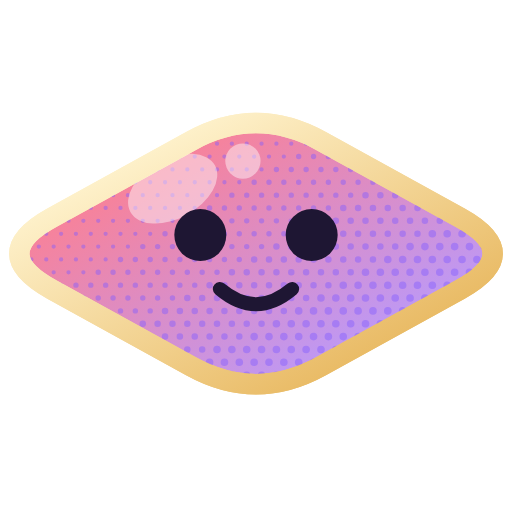
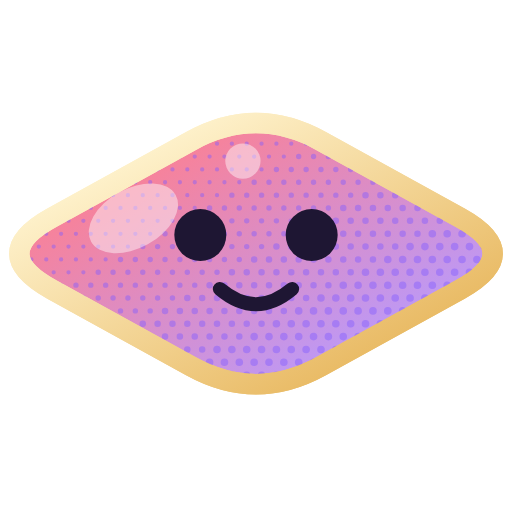
Rest the hero's gloss against the edge instead of under it, clear of the eyes (#385)

Changed region(s): [[0.1562, 0.2812, 0.4375, 0.5]]

diff --git a/app/kit/figure-icon.ts b/app/kit/figure-icon.ts
@@ -1,2 +1,2 @@
 // Written by `pnpm make:icon`: the app icon's drawing in the day look, for the first opening (src/launch-intro.ts).
-export const FIGURE_ICON_SVG = "<svg aria-hidden=\"true\" focusable=\"false\" viewBox=\"0 0 64 40\" data-character=\"diamond\" style=\"overflow:visible\"><g data-part=\"figure\" style=\"transform-box:fill-box;transform-origin:50% 100%\"><g><defs><linearGradient id=\"icon-body\" x1=\"0.15\" y1=\"0.15\" x2=\"0.85\" y2=\"0.85\"><stop offset=\"0\" style=\"stop-color:#FF7F8E\"></stop><stop offset=\"1\" style=\"stop-color:#B79BFF\"></stop></linearGradient><linearGradient id=\"icon-edge\" x1=\"0.15\" y1=\"0.15\" x2=\"0.85\" y2=\"0.85\"><stop offset=\"0\" style=\"stop-color:#FFF4D0\"></stop><stop offset=\"1\" style=\"stop-color:#E8B860\"></stop></linearGradient></defs><g data-part=\"body\"><path d=\"M25 7.86 Q32 4 39 7.86 L54 16.14 Q61 20 54 23.86 L39 32.14 Q32 36 25 32.14 L10 23.86 Q3 20 10 16.14 Z\" style=\"fill:url(#icon-body);stroke:url(#icon-edge);stroke-width:2.2;stroke-linejoin:round\"></path><g data-part=\"halftone\"><path d=\"\" style=\"fill:none;stroke:#835EFF;stroke-opacity:0.45;stroke-width:0.22;stroke-linecap:round\"></path><path d=\"\" style=\"fill:none;stroke:#835EFF;stroke-opacity:0.45;stroke-width:0.34;stroke-linecap:round\"></path><path d=\"M27 6.77h0M28.6 6.77h0M30.2 6.77h0M31.8 6.77h0M33.4 6.77h0M35 6.77h0M36.6 6.77h0M24.6 8.16h0M26.2 8.16h0M27.8 8.16h0M29.4 8.16h0M31 8.16h0M32.6 8.16h0M34.2 8.16h0M35.8 8.16h0M37.4 8.16h0M22.2 9.54h0M23.8 9.54h0M25.4 9.54h0M27 9.54h0M28.6 9.54h0M30.2 9.54h0M31.8 9.54h0M33.4 9.54h0M35 9.54h0M19.8 10.93h0M21.4 10.93h0M23 10.93h0M24.6 10.93h0M26.2 10.93h0M27.8 10.93h0M29.4 10.93h0M31 10.93h0M32.6 10.93h0M17.4 12.31h0M19 12.31h0M20.6 12.31h0M22.2 12.31h0M23.8 12.31h0M25.4 12.31h0M27 12.31h0M28.6 12.31h0M30.2 12.31h0M15 13.7h0M16.6 13.7h0M18.2 13.7h0M19.8 13.7h0M21.4 13.7h0M23 13.7h0M24.6 13.7h0M26.2 13.7h0M27.8 13.7h0M12.6 15.08h0M14.2 15.08h0M15.8 15.08h0M17.4 15.08h0M19 15.08h0M20.6 15.08h0M22.2 15.08h0M23.8 15.08h0M25.4 15.08h0M10.2 16.47h0M11.8 16.47h0M13.4 16.47h0M15 16.47h0M16.6 16.47h0M18.2 16.47h0M19.8 16.47h0M21.4 16.47h0M23 16.47h0M7.8 17.86h0M9.4 17.86h0M11 17.86h0M12.6 17.86h0M14.2 17.86h0M15.8 17.86h0M17.4 17.86h0M19 17.86h0M20.6 17.86h0M7 19.24h0M8.6 19.24h0M10.2 19.24h0M11.8 19.24h0M13.4 19.24h0M15 19.24h0M16.6 19.24h0M18.2 19.24h0M7.8 20.63h0M9.4 20.63h0M11 20.63h0M12.6 20.63h0M14.2 20.63h0M15.8 20.63h0M7 22.01h0M8.6 22.01h0M10.2 22.01h0M11.8 22.01h0M13.4 22.01h0M9.4 23.4h0M11 23.4h0\" style=\"fill:none;stroke:#835EFF;stroke-opacity:0.45;stroke-width:0.46;stroke-linecap:round\"></path><path d=\"M39 8.16h0M36.6 9.54h0M38.2 9.54h0M39.8 9.54h0M41.4 9.54h0M34.2 10.93h0M35.8 10.93h0M37.4 10.93h0M39 10.93h0M40.6 10.93h0M42.2 10.93h0M43.8 10.93h0M31.8 12.31h0M33.4 12.31h0M35 12.31h0M36.6 12.31h0M38.2 12.31h0M39.8 12.31h0M41.4 12.31h0M43 12.31h0M44.6 12.31h0M29.4 13.7h0M31 13.7h0M32.6 13.7h0M34.2 13.7h0M35.8 13.7h0M37.4 13.7h0M39 13.7h0M40.6 13.7h0M42.2 13.7h0M27 15.08h0M28.6 15.08h0M30.2 15.08h0M31.8 15.08h0M33.4 15.08h0M35 15.08h0M36.6 15.08h0M38.2 15.08h0M39.8 15.08h0M24.6 16.47h0M26.2 16.47h0M27.8 16.47h0M29.4 16.47h0M31 16.47h0M32.6 16.47h0M34.2 16.47h0M35.8 16.47h0M37.4 16.47h0M22.2 17.86h0M23.8 17.86h0M25.4 17.86h0M27 17.86h0M28.6 17.86h0M30.2 17.86h0M31.8 17.86h0M33.4 17.86h0M35 17.86h0M19.8 19.24h0M21.4 19.24h0M23 19.24h0M24.6 19.24h0M26.2 19.24h0M27.8 19.24h0M29.4 19.24h0M31 19.24h0M32.6 19.24h0M17.4 20.63h0M19 20.63h0M20.6 20.63h0M22.2 20.63h0M23.8 20.63h0M25.4 20.63h0M27 20.63h0M28.6 20.63h0M30.2 20.63h0M15 22.01h0M16.6 22.01h0M18.2 22.01h0M19.8 22.01h0M21.4 22.01h0M23 22.01h0M24.6 22.01h0M26.2 22.01h0M27.8 22.01h0M12.6 23.4h0M14.2 23.4h0M15.8 23.4h0M17.4 23.4h0M19 23.4h0M20.6 23.4h0M22.2 23.4h0M23.8 23.4h0M25.4 23.4h0M11.8 24.78h0M13.4 24.78h0M15 24.78h0M16.6 24.78h0M18.2 24.78h0M19.8 24.78h0M21.4 24.78h0M23 24.78h0M14.2 26.17h0M15.8 26.17h0M17.4 26.17h0M19 26.17h0M20.6 26.17h0M18.2 27.56h0\" style=\"fill:none;stroke:#835EFF;stroke-opacity:0.45;stroke-width:0.58;stroke-linecap:round\"></path><path d=\"M46.2 12.31h0M43.8 13.7h0M45.4 13.7h0M47 13.7h0M48.6 13.7h0M41.4 15.08h0M43 15.08h0M44.6 15.08h0M46.2 15.08h0M47.8 15.08h0M49.4 15.08h0M51 15.08h0M39 16.47h0M40.6 16.47h0M42.2 16.47h0M43.8 16.47h0M45.4 16.47h0M47 16.47h0M48.6 16.47h0M50.2 16.47h0M51.8 16.47h0M36.6 17.86h0M38.2 17.86h0M39.8 17.86h0M41.4 17.86h0M43 17.86h0M44.6 17.86h0M46.2 17.86h0M47.8 17.86h0M49.4 17.86h0M34.2 19.24h0M35.8 19.24h0M37.4 19.24h0M39 19.24h0M40.6 19.24h0M42.2 19.24h0M43.8 19.24h0M45.4 19.24h0M47 19.24h0M31.8 20.63h0M33.4 20.63h0M35 20.63h0M36.6 20.63h0M38.2 20.63h0M39.8 20.63h0M41.4 20.63h0M43 20.63h0M44.6 20.63h0M29.4 22.01h0M31 22.01h0M32.6 22.01h0M34.2 22.01h0M35.8 22.01h0M37.4 22.01h0M39 22.01h0M40.6 22.01h0M42.2 22.01h0M27 23.4h0M28.6 23.4h0M30.2 23.4h0M31.8 23.4h0M33.4 23.4h0M35 23.4h0M36.6 23.4h0M38.2 23.4h0M39.8 23.4h0M24.6 24.78h0M26.2 24.78h0M27.8 24.78h0M29.4 24.78h0M31 24.78h0M32.6 24.78h0M34.2 24.78h0M35.8 24.78h0M37.4 24.78h0M22.2 26.17h0M23.8 26.17h0M25.4 26.17h0M27 26.17h0M28.6 26.17h0M30.2 26.17h0M31.8 26.17h0M33.4 26.17h0M35 26.17h0M19.8 27.56h0M21.4 27.56h0M23 27.56h0M24.6 27.56h0M26.2 27.56h0M27.8 27.56h0M29.4 27.56h0M31 27.56h0M32.6 27.56h0M20.6 28.94h0M22.2 28.94h0M23.8 28.94h0M25.4 28.94h0M27 28.94h0M28.6 28.94h0M30.2 28.94h0M23 30.33h0M24.6 30.33h0M26.2 30.33h0\" style=\"fill:none;stroke:#835EFF;stroke-opacity:0.45;stroke-width:0.7;stroke-linecap:round\"></path><path d=\"M53.4 16.47h0M51 17.86h0M52.6 17.86h0M54.2 17.86h0M55.8 17.86h0M48.6 19.24h0M50.2 19.24h0M51.8 19.24h0M53.4 19.24h0M55 19.24h0M56.6 19.24h0M46.2 20.63h0M47.8 20.63h0M49.4 20.63h0M51 20.63h0M52.6 20.63h0M54.2 20.63h0M55.8 20.63h0M57.4 20.63h0M43.8 22.01h0M45.4 22.01h0M47 22.01h0M48.6 22.01h0M50.2 22.01h0M51.8 22.01h0M53.4 22.01h0M55 22.01h0M56.6 22.01h0M41.4 23.4h0M43 23.4h0M44.6 23.4h0M46.2 23.4h0M47.8 23.4h0M49.4 23.4h0M51 23.4h0M52.6 23.4h0M54.2 23.4h0M39 24.78h0M40.6 24.78h0M42.2 24.78h0M43.8 24.78h0M45.4 24.78h0M47 24.78h0M48.6 24.78h0M50.2 24.78h0M51.8 24.78h0M36.6 26.17h0M38.2 26.17h0M39.8 26.17h0M41.4 26.17h0M43 26.17h0M44.6 26.17h0M46.2 26.17h0M47.8 26.17h0M49.4 26.17h0M34.2 27.56h0M35.8 27.56h0M37.4 27.56h0M39 27.56h0M40.6 27.56h0M42.2 27.56h0M43.8 27.56h0M45.4 27.56h0M47 27.56h0M31.8 28.94h0M33.4 28.94h0M35 28.94h0M36.6 28.94h0M38.2 28.94h0M39.8 28.94h0M41.4 28.94h0M43 28.94h0M44.6 28.94h0M27.8 30.33h0M29.4 30.33h0M31 30.33h0M32.6 30.33h0M34.2 30.33h0M35.8 30.33h0M37.4 30.33h0M39 30.33h0M40.6 30.33h0M42.2 30.33h0M25.4 31.71h0M27 31.71h0M28.6 31.71h0M30.2 31.71h0M31.8 31.71h0M33.4 31.71h0M35 31.71h0M36.6 31.71h0M38.2 31.71h0M27.8 33.1h0M29.4 33.1h0M31 33.1h0M32.6 33.1h0M34.2 33.1h0M35.8 33.1h0\" style=\"fill:none;stroke:#835EFF;stroke-opacity:0.45;stroke-width:0.82;stroke-linecap:round\"></path><path d=\"\" style=\"fill:none;stroke:#835EFF;stroke-opacity:0.45;stroke-width:0.94;stroke-linecap:round\"></path><path d=\"\" style=\"fill:none;stroke:#835EFF;stroke-opacity:0.45;stroke-width:1.06;stroke-linecap:round\"></path></g><g data-part=\"gloss\"><ellipse cx=\"23.02\" cy=\"13\" rx=\"5.2\" ry=\"3.2\" transform=\"rotate(-28.89 23.02 13)\" style=\"fill:rgba(255, 255, 255, 0.45)\"></ellipse><circle cx=\"30.59\" cy=\"10.03\" r=\"1.9\" style=\"fill:rgba(255, 255, 255, 0.45)\"></circle></g><path data-part=\"edge\" d=\"M25 7.86 Q32 4 39 7.86 L54 16.14 Q61 20 54 23.86 L39 32.14 Q32 36 25 32.14 L10 23.86 Q3 20 10 16.14 Z\" style=\"fill:none;stroke:url(#icon-edge);stroke-width:2.2;stroke-linejoin:round\"></path></g><g data-part=\"face\"><g data-part=\"eyes\" style=\"transform:translate(0px, 0px)\"><g data-part=\"gaze\"><g data-part=\"lid\" style=\"transform-box:fill-box;transform-origin:50% 50%\"><circle data-part=\"eye\" cx=\"26\" cy=\"18\" r=\"2.8\" style=\"fill:#1E1633;transform-box:fill-box;transform-origin:50% 50%\"></circle></g><g data-part=\"lid\" style=\"transform-box:fill-box;transform-origin:50% 50%\"><circle data-part=\"eye\" cx=\"38\" cy=\"18\" r=\"2.8\" style=\"fill:#1E1633;transform-box:fill-box;transform-origin:50% 50%\"></circle></g></g></g><g data-part=\"mouth\" style=\"transform-box:fill-box;transform-origin:50% 50%\"><path d=\"M28.1 23.8 Q32 27.1 35.9 23.8\" style=\"fill:none;stroke:#1E1633;stroke-width:1.5;stroke-linecap:round\"></path></g></g></g></g></svg>";
+export const FIGURE_ICON_SVG = "<svg aria-hidden=\"true\" focusable=\"false\" viewBox=\"0 0 64 40\" data-character=\"diamond\" style=\"overflow:visible\"><g data-part=\"figure\" style=\"transform-box:fill-box;transform-origin:50% 100%\"><g><defs><linearGradient id=\"icon-body\" x1=\"0.15\" y1=\"0.15\" x2=\"0.85\" y2=\"0.85\"><stop offset=\"0\" style=\"stop-color:#FF7F8E\"></stop><stop offset=\"1\" style=\"stop-color:#B79BFF\"></stop></linearGradient><linearGradient id=\"icon-edge\" x1=\"0.15\" y1=\"0.15\" x2=\"0.85\" y2=\"0.85\"><stop offset=\"0\" style=\"stop-color:#FFF4D0\"></stop><stop offset=\"1\" style=\"stop-color:#E8B860\"></stop></linearGradient></defs><g data-part=\"body\"><path d=\"M25 7.86 Q32 4 39 7.86 L54 16.14 Q61 20 54 23.86 L39 32.14 Q32 36 25 32.14 L10 23.86 Q3 20 10 16.14 Z\" style=\"fill:url(#icon-body);stroke:url(#icon-edge);stroke-width:2.2;stroke-linejoin:round\"></path><g data-part=\"halftone\"><path d=\"\" style=\"fill:none;stroke:#835EFF;stroke-opacity:0.45;stroke-width:0.22;stroke-linecap:round\"></path><path d=\"\" style=\"fill:none;stroke:#835EFF;stroke-opacity:0.45;stroke-width:0.34;stroke-linecap:round\"></path><path d=\"M27 6.77h0M28.6 6.77h0M30.2 6.77h0M31.8 6.77h0M33.4 6.77h0M35 6.77h0M36.6 6.77h0M24.6 8.16h0M26.2 8.16h0M27.8 8.16h0M29.4 8.16h0M31 8.16h0M32.6 8.16h0M34.2 8.16h0M35.8 8.16h0M37.4 8.16h0M22.2 9.54h0M23.8 9.54h0M25.4 9.54h0M27 9.54h0M28.6 9.54h0M30.2 9.54h0M31.8 9.54h0M33.4 9.54h0M35 9.54h0M19.8 10.93h0M21.4 10.93h0M23 10.93h0M24.6 10.93h0M26.2 10.93h0M27.8 10.93h0M29.4 10.93h0M31 10.93h0M32.6 10.93h0M17.4 12.31h0M19 12.31h0M20.6 12.31h0M22.2 12.31h0M23.8 12.31h0M25.4 12.31h0M27 12.31h0M28.6 12.31h0M30.2 12.31h0M15 13.7h0M16.6 13.7h0M18.2 13.7h0M19.8 13.7h0M21.4 13.7h0M23 13.7h0M24.6 13.7h0M26.2 13.7h0M27.8 13.7h0M12.6 15.08h0M14.2 15.08h0M15.8 15.08h0M17.4 15.08h0M19 15.08h0M20.6 15.08h0M22.2 15.08h0M23.8 15.08h0M25.4 15.08h0M10.2 16.47h0M11.8 16.47h0M13.4 16.47h0M15 16.47h0M16.6 16.47h0M18.2 16.47h0M19.8 16.47h0M21.4 16.47h0M23 16.47h0M7.8 17.86h0M9.4 17.86h0M11 17.86h0M12.6 17.86h0M14.2 17.86h0M15.8 17.86h0M17.4 17.86h0M19 17.86h0M20.6 17.86h0M7 19.24h0M8.6 19.24h0M10.2 19.24h0M11.8 19.24h0M13.4 19.24h0M15 19.24h0M16.6 19.24h0M18.2 19.24h0M7.8 20.63h0M9.4 20.63h0M11 20.63h0M12.6 20.63h0M14.2 20.63h0M15.8 20.63h0M7 22.01h0M8.6 22.01h0M10.2 22.01h0M11.8 22.01h0M13.4 22.01h0M9.4 23.4h0M11 23.4h0\" style=\"fill:none;stroke:#835EFF;stroke-opacity:0.45;stroke-width:0.46;stroke-linecap:round\"></path><path d=\"M39 8.16h0M36.6 9.54h0M38.2 9.54h0M39.8 9.54h0M41.4 9.54h0M34.2 10.93h0M35.8 10.93h0M37.4 10.93h0M39 10.93h0M40.6 10.93h0M42.2 10.93h0M43.8 10.93h0M31.8 12.31h0M33.4 12.31h0M35 12.31h0M36.6 12.31h0M38.2 12.31h0M39.8 12.31h0M41.4 12.31h0M43 12.31h0M44.6 12.31h0M29.4 13.7h0M31 13.7h0M32.6 13.7h0M34.2 13.7h0M35.8 13.7h0M37.4 13.7h0M39 13.7h0M40.6 13.7h0M42.2 13.7h0M27 15.08h0M28.6 15.08h0M30.2 15.08h0M31.8 15.08h0M33.4 15.08h0M35 15.08h0M36.6 15.08h0M38.2 15.08h0M39.8 15.08h0M24.6 16.47h0M26.2 16.47h0M27.8 16.47h0M29.4 16.47h0M31 16.47h0M32.6 16.47h0M34.2 16.47h0M35.8 16.47h0M37.4 16.47h0M22.2 17.86h0M23.8 17.86h0M25.4 17.86h0M27 17.86h0M28.6 17.86h0M30.2 17.86h0M31.8 17.86h0M33.4 17.86h0M35 17.86h0M19.8 19.24h0M21.4 19.24h0M23 19.24h0M24.6 19.24h0M26.2 19.24h0M27.8 19.24h0M29.4 19.24h0M31 19.24h0M32.6 19.24h0M17.4 20.63h0M19 20.63h0M20.6 20.63h0M22.2 20.63h0M23.8 20.63h0M25.4 20.63h0M27 20.63h0M28.6 20.63h0M30.2 20.63h0M15 22.01h0M16.6 22.01h0M18.2 22.01h0M19.8 22.01h0M21.4 22.01h0M23 22.01h0M24.6 22.01h0M26.2 22.01h0M27.8 22.01h0M12.6 23.4h0M14.2 23.4h0M15.8 23.4h0M17.4 23.4h0M19 23.4h0M20.6 23.4h0M22.2 23.4h0M23.8 23.4h0M25.4 23.4h0M11.8 24.78h0M13.4 24.78h0M15 24.78h0M16.6 24.78h0M18.2 24.78h0M19.8 24.78h0M21.4 24.78h0M23 24.78h0M14.2 26.17h0M15.8 26.17h0M17.4 26.17h0M19 26.17h0M20.6 26.17h0M18.2 27.56h0\" style=\"fill:none;stroke:#835EFF;stroke-opacity:0.45;stroke-width:0.58;stroke-linecap:round\"></path><path d=\"M46.2 12.31h0M43.8 13.7h0M45.4 13.7h0M47 13.7h0M48.6 13.7h0M41.4 15.08h0M43 15.08h0M44.6 15.08h0M46.2 15.08h0M47.8 15.08h0M49.4 15.08h0M51 15.08h0M39 16.47h0M40.6 16.47h0M42.2 16.47h0M43.8 16.47h0M45.4 16.47h0M47 16.47h0M48.6 16.47h0M50.2 16.47h0M51.8 16.47h0M36.6 17.86h0M38.2 17.86h0M39.8 17.86h0M41.4 17.86h0M43 17.86h0M44.6 17.86h0M46.2 17.86h0M47.8 17.86h0M49.4 17.86h0M34.2 19.24h0M35.8 19.24h0M37.4 19.24h0M39 19.24h0M40.6 19.24h0M42.2 19.24h0M43.8 19.24h0M45.4 19.24h0M47 19.24h0M31.8 20.63h0M33.4 20.63h0M35 20.63h0M36.6 20.63h0M38.2 20.63h0M39.8 20.63h0M41.4 20.63h0M43 20.63h0M44.6 20.63h0M29.4 22.01h0M31 22.01h0M32.6 22.01h0M34.2 22.01h0M35.8 22.01h0M37.4 22.01h0M39 22.01h0M40.6 22.01h0M42.2 22.01h0M27 23.4h0M28.6 23.4h0M30.2 23.4h0M31.8 23.4h0M33.4 23.4h0M35 23.4h0M36.6 23.4h0M38.2 23.4h0M39.8 23.4h0M24.6 24.78h0M26.2 24.78h0M27.8 24.78h0M29.4 24.78h0M31 24.78h0M32.6 24.78h0M34.2 24.78h0M35.8 24.78h0M37.4 24.78h0M22.2 26.17h0M23.8 26.17h0M25.4 26.17h0M27 26.17h0M28.6 26.17h0M30.2 26.17h0M31.8 26.17h0M33.4 26.17h0M35 26.17h0M19.8 27.56h0M21.4 27.56h0M23 27.56h0M24.6 27.56h0M26.2 27.56h0M27.8 27.56h0M29.4 27.56h0M31 27.56h0M32.6 27.56h0M20.6 28.94h0M22.2 28.94h0M23.8 28.94h0M25.4 28.94h0M27 28.94h0M28.6 28.94h0M30.2 28.94h0M23 30.33h0M24.6 30.33h0M26.2 30.33h0\" style=\"fill:none;stroke:#835EFF;stroke-opacity:0.45;stroke-width:0.7;stroke-linecap:round\"></path><path d=\"M53.4 16.47h0M51 17.86h0M52.6 17.86h0M54.2 17.86h0M55.8 17.86h0M48.6 19.24h0M50.2 19.24h0M51.8 19.24h0M53.4 19.24h0M55 19.24h0M56.6 19.24h0M46.2 20.63h0M47.8 20.63h0M49.4 20.63h0M51 20.63h0M52.6 20.63h0M54.2 20.63h0M55.8 20.63h0M57.4 20.63h0M43.8 22.01h0M45.4 22.01h0M47 22.01h0M48.6 22.01h0M50.2 22.01h0M51.8 22.01h0M53.4 22.01h0M55 22.01h0M56.6 22.01h0M41.4 23.4h0M43 23.4h0M44.6 23.4h0M46.2 23.4h0M47.8 23.4h0M49.4 23.4h0M51 23.4h0M52.6 23.4h0M54.2 23.4h0M39 24.78h0M40.6 24.78h0M42.2 24.78h0M43.8 24.78h0M45.4 24.78h0M47 24.78h0M48.6 24.78h0M50.2 24.78h0M51.8 24.78h0M36.6 26.17h0M38.2 26.17h0M39.8 26.17h0M41.4 26.17h0M43 26.17h0M44.6 26.17h0M46.2 26.17h0M47.8 26.17h0M49.4 26.17h0M34.2 27.56h0M35.8 27.56h0M37.4 27.56h0M39 27.56h0M40.6 27.56h0M42.2 27.56h0M43.8 27.56h0M45.4 27.56h0M47 27.56h0M31.8 28.94h0M33.4 28.94h0M35 28.94h0M36.6 28.94h0M38.2 28.94h0M39.8 28.94h0M41.4 28.94h0M43 28.94h0M44.6 28.94h0M27.8 30.33h0M29.4 30.33h0M31 30.33h0M32.6 30.33h0M34.2 30.33h0M35.8 30.33h0M37.4 30.33h0M39 30.33h0M40.6 30.33h0M42.2 30.33h0M25.4 31.71h0M27 31.71h0M28.6 31.71h0M30.2 31.71h0M31.8 31.71h0M33.4 31.71h0M35 31.71h0M36.6 31.71h0M38.2 31.71h0M27.8 33.1h0M29.4 33.1h0M31 33.1h0M32.6 33.1h0M34.2 33.1h0M35.8 33.1h0\" style=\"fill:none;stroke:#835EFF;stroke-opacity:0.45;stroke-width:0.82;stroke-linecap:round\"></path><path d=\"\" style=\"fill:none;stroke:#835EFF;stroke-opacity:0.45;stroke-width:0.94;stroke-linecap:round\"></path><path d=\"\" style=\"fill:none;stroke:#835EFF;stroke-opacity:0.45;stroke-width:1.06;stroke-linecap:round\"></path></g><g data-part=\"gloss\"><ellipse cx=\"18.79\" cy=\"16.2\" rx=\"5.2\" ry=\"3.2\" transform=\"rotate(-28.89 18.79 16.2)\" style=\"fill:rgba(255, 255, 255, 0.45)\"></ellipse><circle cx=\"30.59\" cy=\"10.03\" r=\"1.9\" style=\"fill:rgba(255, 255, 255, 0.45)\"></circle></g><path data-part=\"edge\" d=\"M25 7.86 Q32 4 39 7.86 L54 16.14 Q61 20 54 23.86 L39 32.14 Q32 36 25 32.14 L10 23.86 Q3 20 10 16.14 Z\" style=\"fill:none;stroke:url(#icon-edge);stroke-width:2.2;stroke-linejoin:round\"></path></g><g data-part=\"face\"><g data-part=\"eyes\" style=\"transform:translate(0px, 0px)\"><g data-part=\"gaze\"><g data-part=\"lid\" style=\"transform-box:fill-box;transform-origin:50% 50%\"><circle data-part=\"eye\" cx=\"26\" cy=\"18\" r=\"2.8\" style=\"fill:#1E1633;transform-box:fill-box;transform-origin:50% 50%\"></circle></g><g data-part=\"lid\" style=\"transform-box:fill-box;transform-origin:50% 50%\"><circle data-part=\"eye\" cx=\"38\" cy=\"18\" r=\"2.8\" style=\"fill:#1E1633;transform-box:fill-box;transform-origin:50% 50%\"></circle></g></g></g><g data-part=\"mouth\" style=\"transform-box:fill-box;transform-origin:50% 50%\"><path d=\"M28.1 23.8 Q32 27.1 35.9 23.8\" style=\"fill:none;stroke:#1E1633;stroke-width:1.5;stroke-linecap:round\"></path></g></g></g></g></svg>";

diff --git a/app/kit/Figure.tsx b/app/kit/Figure.tsx
@@ -93,17 +93,112 @@ function edges() {
   });
 }
 
+/** Half the edge's width: the part of the line drawn inside the body. */
+const EDGE_HALF = 1.1;
+/** How far along each side the corners' round reaches (app/kit/Character.tsx draws the diamond with radius 8). */
+const CORNER_ROUND = 8;
+/** The eyes' centres and their radius, open: where the gloss must leave room. */
+const EYES_AT: readonly (readonly [number, number])[] = [
+  [26, 18],
+  [38, 18],
+];
+const EYE_R = 2.8;
+/** The room the gloss leaves an eye at rest. */
+const EYE_CLEAR = 0.4;
+export const GLOSS_RX = 5.2;
+export const GLOSS_RY = 3.2;
+export const DOT_R = 1.9;
+
+/**
+ * The body's outline as the diamond draws it (app/kit/Character.tsx, corners rounded by 8 with one quadratic each),
+ * as points close enough together to measure a distance on: the straight sides and the round of each corner.
+ */
+const OUTLINE: readonly (readonly [number, number])[] = (() => {
+  const points: [number, number][] = [];
+  CORNERS.forEach(([x, y], index) => {
+    const [px, py] = CORNERS[(index + CORNERS.length - 1) % CORNERS.length];
+    const [nx, ny] = CORNERS[(index + 1) % CORNERS.length];
+    const toPrevious = Math.hypot(px - x, py - y);
+    const toNext = Math.hypot(nx - x, ny - y);
+    const start = [x + ((px - x) / toPrevious) * CORNER_ROUND, y + ((py - y) / toPrevious) * CORNER_ROUND];
+    const end = [x + ((nx - x) / toNext) * CORNER_ROUND, y + ((ny - y) / toNext) * CORNER_ROUND];
+    for (let step = 0; step <= 16; step += 1) {
+      const t = step / 16;
+      points.push([(1 - t) ** 2 * start[0] + 2 * (1 - t) * t * x + t * t * end[0], (1 - t) ** 2 * start[1] + 2 * (1 - t) * t * y + t * t * end[1]]);
+    }
+  });
+  return points;
+})();
+
+/** How far a point is from the body's outline, measured to the nearest of its segments. */
+export function fromOutline(point: Readonly<{ x: number; y: number }>): number {
+  let nearest = Infinity;
+  OUTLINE.forEach(([ax, ay], index) => {
+    const [bx, by] = OUTLINE[(index + 1) % OUTLINE.length];
+    const length = (bx - ax) ** 2 + (by - ay) ** 2 || 1;
+    const t = Math.max(0, Math.min(1, ((point.x - ax) * (bx - ax) + (point.y - ay) * (by - ay)) / length));
+    nearest = Math.min(nearest, Math.hypot(point.x - (ax + t * (bx - ax)), point.y - (ay + t * (by - ay))));
+  });
+  return nearest;
+}
+
+/** The least room between the gloss, slanted by `angle`, and either eye. */
+function fromEyes(cx: number, cy: number, angle: number): number {
+  let nearest = Infinity;
+  for (let step = 0; step < 90; step += 1) {
+    const t = (step * Math.PI) / 45;
+    const x = cx + GLOSS_RX * Math.cos(t) * Math.cos(angle) - GLOSS_RY * Math.sin(t) * Math.sin(angle);
+    const y = cy + GLOSS_RX * Math.cos(t) * Math.sin(angle) + GLOSS_RY * Math.sin(t) * Math.cos(angle);
+    for (const [ex, ey] of EYES_AT) nearest = Math.min(nearest, Math.hypot(x - ex, y - ey) - EYE_R);
+  }
+  return nearest;
+}
+
 /**
  * What the light does to the body: the gradient's two points, the gloss's place and slant, and the dot beside it.
  * All of it from one direction, so a pose never has to be lit by hand.
+ *
+ * Neither reflection is cut by the edge (the founder, 29 Sep 2026: the edge cut the gloss's round side). The gloss lies
+ * along the lit side and touches the edge's inner line: its short half-axis and half the edge from that side's line;
+ * pressed there, it would meet the left eye, so it slides along the side until it clears it, keeping its shape. The dot stays where the light puts it, and only moves toward the middle when the edge, or a corner's round, would
+ * cover part of it.
  */
 export function lit(light = LIGHT, lean = 0) {
   const l = turned(unit(light), lean);
   const gradient = { x1: 0.5 + 0.5 * l.x, y1: 0.5 + 0.5 * l.y, x2: 0.5 - 0.5 * l.x, y2: 0.5 - 0.5 * l.y };
-  const gloss = { cx: CENTRE.x + l.x * 12.7, cy: CENTRE.y + l.y * 9.9 };
-  const dot = { cx: CENTRE.x + l.x * 2, cy: CENTRE.y + l.y * 14.1 };
   const all = edges().map((edge) => ({ ...edge, facing: edge.normal.x * l.x + edge.normal.y * l.y }));
   const litEdge = all.reduce((best, edge) => (edge.facing > best.facing ? edge : best), all[0]);
+  const lightOn = { x: CENTRE.x + l.x * 12.7, y: CENTRE.y + l.y * 9.9 };
+  const inward = { x: -litEdge.normal.x, y: -litEdge.normal.y };
+  const fromSide = (lightOn.x - litEdge.from[0]) * inward.x + (lightOn.y - litEdge.from[1]) * inward.y;
+  const shift = GLOSS_RY + EDGE_HALF - fromSide;
+  const tangent = { x: lightOn.x + inward.x * shift, y: lightOn.y + inward.y * shift };
+  // Pressed against the edge, it would now meet an eye: it slides along the side, the least it takes, until it clears
+  // both, and never into a corner's round, where the side is no longer straight.
+  const along = unit({ x: litEdge.to[0] - litEdge.from[0], y: litEdge.to[1] - litEdge.from[1] });
+  const at = (tangent.x - litEdge.from[0]) * along.x + (tangent.y - litEdge.from[1]) * along.y;
+  const angle = (litEdge.angle * Math.PI) / 180;
+  let gloss = { cx: tangent.x, cy: tangent.y };
+  search: for (let slide = 0; slide <= litEdge.length; slide += 0.25) {
+    for (const way of [-1, 1]) {
+      const middle = at + way * slide;
+      if (middle - GLOSS_RX < CORNER_ROUND || middle + GLOSS_RX > litEdge.length - CORNER_ROUND) continue;
+      const cx = tangent.x + along.x * way * slide;
+      const cy = tangent.y + along.y * way * slide;
+      if (fromEyes(cx, cy, angle) >= EYE_CLEAR) {
+        gloss = { cx, cy };
+        break search;
+      }
+    }
+  }
+  const dot = { cx: CENTRE.x + l.x * 2, cy: CENTRE.y + l.y * 14.1 };
+  const toMiddle = unit({ x: CENTRE.x - dot.cx, y: CENTRE.y - dot.cy });
+  for (let step = 0; step < 3; step += 1) {
+    const short = DOT_R + EDGE_HALF - fromOutline({ x: dot.cx, y: dot.cy });
+    if (short <= 0) break;
+    dot.cx += toMiddle.x * short;
+    dot.cy += toMiddle.y * short;
+  }
   return { light: l, gradient, gloss: { ...gloss, angle: round(litEdge.angle) }, dot };
 }
 
@@ -229,10 +324,7 @@ function Limbs({ arms, legs, holding }: Readonly<{ arms: ArmsPose; legs: LegsPos
 
 /** The eyes, in their sets; a closed eye is the open one's pill, so one can open into the other (D226). */
 function EyesOf({ eyes, gaze, id }: Readonly<{ eyes: Eyes; gaze: Readonly<{ x: number; y: number }>; id: string }>) {
-  const at: readonly (readonly [number, number])[] = [
-    [26, 18],
-    [38, 18],
-  ];
+  const at = EYES_AT;
   if (eyes === "shades") return <Shades id={id} />;
   return (
     <g data-part="eyes" style={{ transform: `translate(${round(gaze.x * 1.6)}px, ${round(gaze.y * 1.2)}px)` }}>
@@ -241,7 +333,7 @@ function EyesOf({ eyes, gaze, id }: Readonly<{ eyes: Eyes; gaze: Readonly<{ x: n
         eyes === "open" ? (
           // The lid: what a blink closes (D301), around the eye so the eye's own transform stays its expression's.
           <g key={x} data-part="lid" style={FROM_MIDDLE}>
-            <circle data-part="eye" cx={x} cy={y} r={2.8} style={{ fill: INK, ...FROM_MIDDLE }} />
+            <circle data-part="eye" cx={x} cy={y} r={EYE_R} style={{ fill: INK, ...FROM_MIDDLE }} />
           </g>
         ) : eyes === "closed" ? (
           <rect key={x} data-part="eye" x={x - 3.4} y={y - 1.2} width={6.8} height={2.4} rx={3.4} ry={1.2} style={{ fill: INK, ...FROM_MIDDLE }} />
@@ -473,8 +565,8 @@ export function FigureGroup({ eyes = "open", mouth = "smile", arms = "rest", leg
         {/* The gloss: where the surface faces halfway between the light and the eye, slanted along the lit edge, and one
             dot beside it. A third, smaller spot inside the gloss read as a second, lighter circle and was taken off (D243). */}
         <g data-part="gloss">
-          <ellipse cx={round(shine.gloss.cx)} cy={round(shine.gloss.cy)} rx={5.2} ry={3.2} transform={`rotate(${shine.gloss.angle} ${round(shine.gloss.cx)} ${round(shine.gloss.cy)})`} style={{ fill: GLOSS }} />
-          <circle cx={round(shine.dot.cx)} cy={round(shine.dot.cy)} r={1.9} style={{ fill: GLOSS }} />
+          <ellipse cx={round(shine.gloss.cx)} cy={round(shine.gloss.cy)} rx={GLOSS_RX} ry={GLOSS_RY} transform={`rotate(${shine.gloss.angle} ${round(shine.gloss.cx)} ${round(shine.gloss.cy)})`} style={{ fill: GLOSS }} />
+          <circle cx={round(shine.dot.cx)} cy={round(shine.dot.cy)} r={DOT_R} style={{ fill: GLOSS }} />
         </g>
         {/* The edge again over the dots and the gloss, so both stop at its inner side (the founder, 29 Sep 2026: the gloss
             lay on the coloured edge), without a clip (D288). Inside the body's group, so what the figure holds in front of

diff --git a/test/figure.test.ts b/test/figure.test.ts
@@ -3,7 +3,7 @@ import { readFileSync } from "node:fs";
 import test from "node:test";
 import { createElement } from "react";
 import { renderToStaticMarkup } from "react-dom/server";
-import { Figure, LIGHT, Scene, lit } from "../app/kit/Figure";
+import { DOT_R, Figure, fromOutline, GLOSS_RX, GLOSS_RY, LIGHT, Scene, lit } from "../app/kit/Figure";
 
 /**
  * The rig of the figure (D236): one light that everything shining obeys, a face and limbs in named sets, props in
@@ -202,4 +202,30 @@ test("the preview's card grows with its words, the figure always on its edge (D2
 test("the first opening draws the icon's own drawing, written in and kept equal to it (pnpm make:icon)", async () => {
   const { iconModule } = await import("../scripts/look-figure");
   assert.equal(readFileSync("app/kit/figure-icon.ts", "utf8"), iconModule(), "run pnpm make:icon");
+});
+
+test("the gloss touches the edge's inner line without being cut or touching an eye, and the dot is never cut, whatever the lean", () => {
+  // The founder, 29 Sep 2026: the edge cut the gloss's round side. Half the edge (2.2 wide) lies inside the body, so a
+  // reflection 1.1 from the outline's middle line just meets the edge, and one nearer is cut by it.
+  for (const lean of [0, -8, 8, 15, -15, 45]) {
+    const shine = lit(LIGHT, lean);
+    const angle = (shine.gloss.angle * Math.PI) / 180;
+    let nearest = Infinity;
+    for (let step = 0; step < 720; step += 1) {
+      const t = (step * Math.PI) / 360;
+      const x = shine.gloss.cx + GLOSS_RX * Math.cos(t) * Math.cos(angle) - GLOSS_RY * Math.sin(t) * Math.sin(angle);
+      const y = shine.gloss.cy + GLOSS_RX * Math.cos(t) * Math.sin(angle) + GLOSS_RY * Math.sin(t) * Math.cos(angle);
+      nearest = Math.min(nearest, fromOutline({ x, y }));
+    }
+    assert.ok(nearest >= 1.08 && nearest <= 1.16, `lean ${lean}: the gloss meets the edge (${nearest.toFixed(3)} from its middle line)`);
+    let fromEye = Infinity;
+    for (let step = 0; step < 720; step += 1) {
+      const t = (step * Math.PI) / 360;
+      const x = shine.gloss.cx + GLOSS_RX * Math.cos(t) * Math.cos(angle) - GLOSS_RY * Math.sin(t) * Math.sin(angle);
+      const y = shine.gloss.cy + GLOSS_RX * Math.cos(t) * Math.sin(angle) + GLOSS_RY * Math.sin(t) * Math.cos(angle);
+      for (const [ex, ey] of [[26, 18], [38, 18]]) fromEye = Math.min(fromEye, Math.hypot(x - ex, y - ey) - 2.8);
+    }
+    assert.ok(fromEye >= 0.35, `lean ${lean}: the gloss leaves the eyes room (${fromEye.toFixed(2)})`);
+    assert.ok(fromOutline({ x: shine.dot.cx, y: shine.dot.cy }) - DOT_R >= 1.09, `lean ${lean}: the dot is inside the edge`);
+  }
 });
